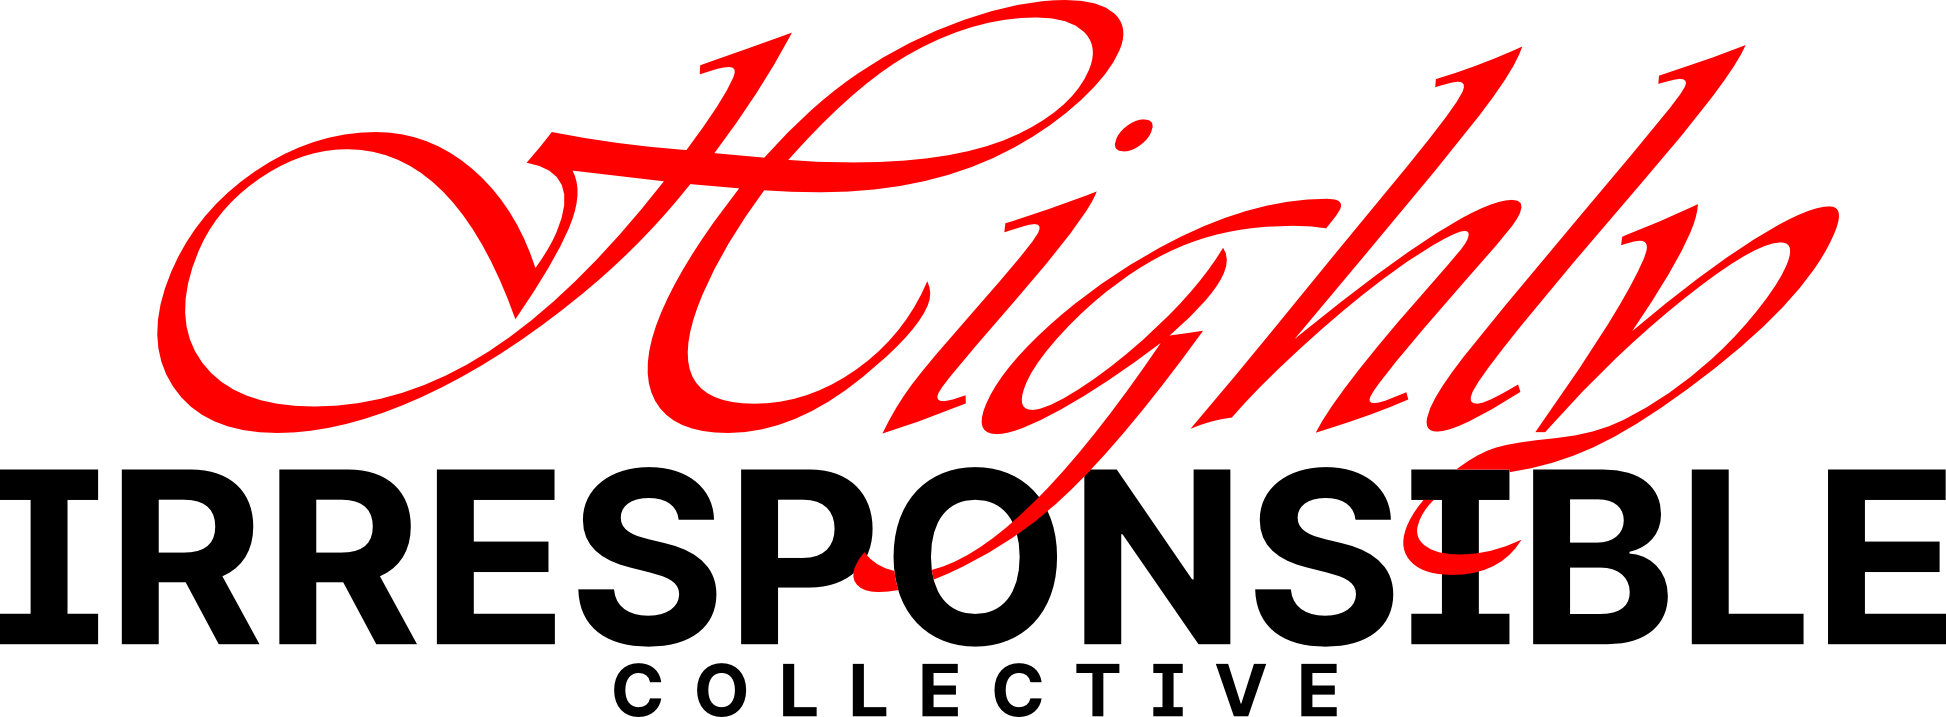
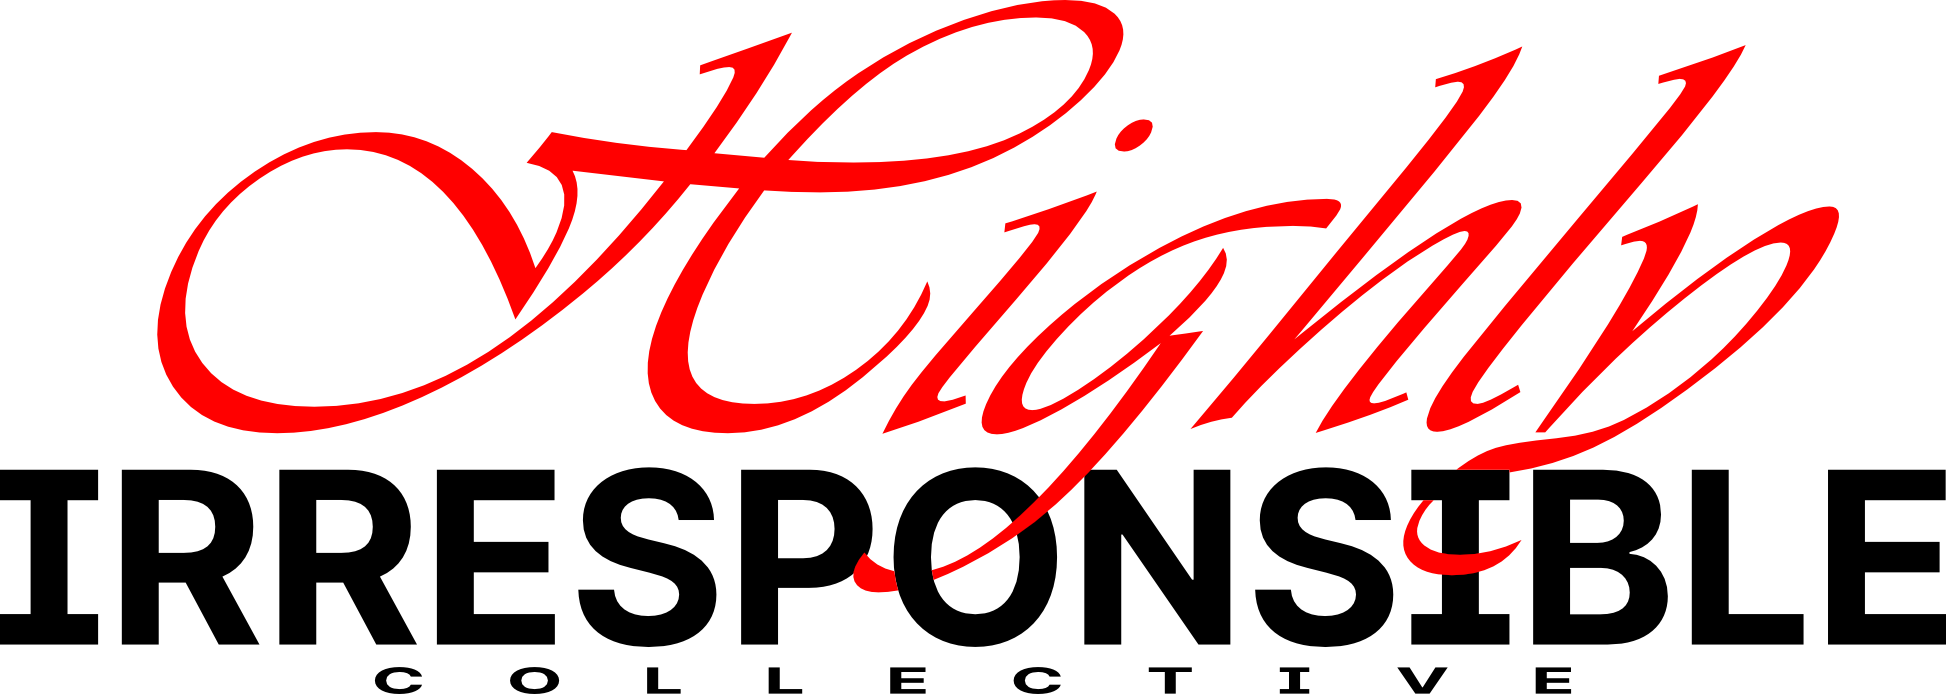
update

diff --git a/style.scss b/style.scss
@@ -1,14 +1,14 @@
 @import "fcr";
 
 html {
-  background-color: white;
+  background-color: black;
 }
 
 body {
-  font-family: -apple-system, BlinkMacSystemFont, 'Segoe UI', Roboto, Oxygen, Ubuntu, Cantarell, 'Open Sans', 'Helvetica Neue', sans-serif;
+  font-family: 'Courier New', Courier, monospace;
   text-align: center;
-  background-color: white;
-  color: $black;
+  background-color: black;
+  color: $white;
   margin-bottom: 2rem;
 }
 

diff --git a/style.css b/style.css
@@ -6,14 +6,14 @@
 }
 
 html {
-  background-color: white;
+  background-color: black;
 }
 
 body {
-  font-family: -apple-system, BlinkMacSystemFont, 'Segoe UI', Roboto, Oxygen, Ubuntu, Cantarell, 'Open Sans', 'Helvetica Neue', sans-serif;
+  font-family: 'Courier New', Courier, monospace;
   text-align: center;
-  background-color: white;
-  color: #121010;
+  background-color: black;
+  color: #efefdf;
   margin-bottom: 2rem;
 }
 

diff --git a/index.html b/index.html
@@ -8,8 +8,8 @@
   <title>HIGHLY IRRESPONSIBLE</title>
 </head>
 <body>
-  <img src="/hic.png" alt="HIGHLY IRRESPONSIBLE" id="hic">
-  <h5>&copy; MMXXI &infin;</h5>
-  <h5>coming soon</h5>
+  <img src="/hic_black.png" alt="HIGHLY IRRESPONSIBLE" id="hic">
+  <h3>&copy; 2021 &infin;</h3>
+  <h4>coming soon</h4>
 </body>
 </html>
